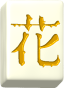
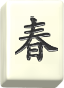
Upgraded to BLAZE, more code changes, threadsafe

Changed region(s): [[0.1562, 0.1591, 0.9375, 0.7727]]

diff --git a/client/game.js b/client/game.js
@@ -16,14 +16,17 @@ scale = {
 }
 
 Template.game.helpers({
+  removed: function() {
+    return Session.get("removedTiles");
+  },
   tiles: function() {
     return Tiles.find();
   },
   relay_tile:function() {
     activeTiles.invalidate();
   },
-  css_style: function(type, x, y, z) {
-    return "background:url('tiles-" + type + "-00.png') 0 0/100%;position:absolute;TOP:" +
+  css_style: function(type, subtype, x, y, z) {
+    return "background:url('tiles-" + type + "-0" + (subtype != null ? subtype : 0) + ".png') 0 0/100%;position:absolute;TOP:" +
     y_offset(x, y, z) + "px;LEFT:" + x_offset(x, y, z) +
     "px;z-index:" + zindex(x, y, z)+";width:"+(tile_width * scale.get()) + "px;height:" + (tile_height * scale.get())+"px"
   },  
@@ -69,9 +72,19 @@ Template.game.helpers({
       var time = new Date();
       time = time.getTime() - get_time().getTime();
       Games.update(Session.get("gameId"), {$set:{'status':complete,'elapsed':time}});
-      console.log("woop")
     }
   return false;
+  },
+  challenge_time: function() {
+    var game = Games.findOne().original
+    if(!game) {
+      return
+    }
+    var time = Games.findOne().originalT
+    return "Time to beat: " + formatTime(getTime(time)) 
+  },
+  rescale: function() {
+    getScale()
   }
 });
 
@@ -83,21 +96,9 @@ timer = function() {
   }
   var now = new Date();
   var time = now.getTime() - started.getTime();
-  var seconds = Math.floor(time / 1000);
-  var minutes = Math.floor(seconds / 60);
-  var hours = Math.floor(minutes / 60);
-  minutes = minutes % 60
-  seconds = seconds % 60
-
-  var timeString;
-  if(hours >= 24) {
-    timeString = "Began over a day ago!";
-  } else {
-    timeString = hours > 0 ? (hours + " hour" + (hours > 1 ? "s" : "") + " ") : ""
-    timeString += minutes > 0 ? (minutes + " minute" + (minutes > 1 ? "s" : "") + " ") : ""
-    timeString += seconds > 0 ? (seconds + " second" + (seconds > 1 ? "s" : "") + " ") : ""
-    timeString += "elapsed"
-  }
+  var timeString = formatTime(getTime(time))
+  timeString += "elapsed"
+  
   $(".time").text(timeString);
 }
 startTimer = function() {
@@ -106,14 +107,16 @@ startTimer = function() {
 
 //on resize, recompute sizes and invalidate layout
 $(window).resize(function() {
+  getScale()
+});
+var getScale = function() {
  var width = $(window).width();
  var height = $(window).height();
  var w_scale = Math.min(1, width/max_width);
  var h_scale = Math.min(1, height/max_height);
  scale.num = Math.min(w_scale, h_scale);
  scale.invalidate()
-
-}); 
+} 
 var get_time = function() {
   Games.findOne()
   return Games.findOne().time_started;
@@ -147,7 +150,7 @@ activeTiles = {
     this.dep.changed();
   }
 }
-debug = true 
+debug = true
 Template.game.events({
  'click .tile': function(event) {
     //if the tile clicked is free...
@@ -159,8 +162,12 @@ Template.game.events({
         if(debug || (this.type == activeTile.type)) {
           //hide the overlay, remove the tiles
           $(".active-tile").css({visibility:"hidden"});
-          Tiles.remove(this._id);
-          Tiles.remove(activeTile._id);
+          Meteor.call("remove", this._id, activeTile._id, function(err, result) {
+          if(!err && result != -1) {
+            Session.set("removedTiles",Session.get("removedTiles") + 1)
+          }});
+          //Tiles.remove(this._id);
+          //Tiles.remove(activeTile._id);
           activeTiles.set(null);
           if(get_time() == -1) {
             Games.update({_id:Session.get("gameId")},{$set:{time_started: new Date()}});
@@ -242,7 +249,7 @@ Deps.autorun(function(){
 subG = null
 subT = null
 Deps.autorun(function() {
-  //these subs should be stopped automagically but I think my redirects are screwing with them OMG I think I know the solution
+  //these subs should be stopped automagically but I think my redirects are screwing with them
   if(subG) {
     subG.stop()
   }

diff --git a/client/boardUtils.js b/client/boardUtils.js
@@ -26,22 +26,35 @@ isFree = function(tile, configuration) {
 
 resetBoard = function(aBoard) {
   var temp = _(aBoard).clone()
-  var tiles = _.keys(temp)
+  var tiles = _.keys(temp) //144 tiles
   tiles = _.shuffle(tiles)
   var tileGroups = {}
-  var tileStyles = _.shuffle(_.range(72))
+  var tileStyles = _.shuffle(_.range(72)) //72 pairs
+  //there are 36 different tiles
   for(var i = 0; i < 36; i++) {
     tileGroups[tileStyles.pop()] = i;
     tileGroups[tileStyles.pop()] = i;
   }
   var currentTile = 0;
   var pairing = null;
+  var flower = 0
+  var season = 0
   while(tiles.length > 0) {
+    //go through and look for free tiles
     for(var i = 0; i < tiles.length; i++) {
       if (pairing != i && isFree(tiles[i], temp)) {
-        if (pairing != null) {
-          aBoard[tiles[pairing]] = tileGroups[currentTile];
-          aBoard[tiles[i]] = tileGroups[currentTile];
+        if (pairing != null) { //we're matching this to a tile
+          var style = tileGroups[currentTile]
+          if(style == 34) {  //flower
+            aBoard[tiles[pairing]] = [34,flower++]
+            aBoard[tiles[pairing]] = [34,flower++]
+          } else if (style == 35) { //season
+            aBoard[tiles[pairing]] = [35,season++]
+            aBoard[tiles[pairing]] = [35,season++]
+          } else {
+            aBoard[tiles[pairing]] = [tileGroups[currentTile]];
+            aBoard[tiles[i]] = [tileGroups[currentTile]];
+          }
           delete temp[tiles[pairing]];
           delete temp[tiles[i]];
           var bigger = Math.max(pairing, i)
@@ -52,7 +65,7 @@ resetBoard = function(aBoard) {
           currentTile++;
           break;
         } else {
-          pairing = i;
+          pairing = i; //we will match next free tile here
         }
       }
     }

diff --git a/server/uap-mahjongg.js b/server/uap-mahjongg.js
@@ -12,6 +12,7 @@ Meteor.methods({
         y:tile[1],
         z:tile[2],
         type:tile[3],
+        subtype:tile[4],
         game : gameId
       }
       Tiles.insert(tempTile)
@@ -23,7 +24,8 @@ Meteor.methods({
       time: new Date(),
       time_started: -1,
       layout: oldGame.layout,
-      original: oldGame._id
+      original: oldGame._id,
+      originalT: oldGame.elapsed
     });
     _.each(oldGame.layout, function(tile) {
       var tempTile = {
@@ -31,14 +33,22 @@ Meteor.methods({
         y:tile[1],
         z:tile[2],
         type:tile[3],
+        subtype:tile[4],
         game : gameId
       }
       Tiles.insert(tempTile)
     });
     console.log(gameId);
     return gameId;
-  } 
- });
+  }, 
+  remove: function(id, id2) {
+    var aTile = Tiles.findOne({_id:id2})
+    if(aTile == null) { return -1 }
+    if(Tiles.remove(id) == 0) { return -1 }
+    Tiles.remove(id2)
+    return 2
+  }
+  });
 Meteor.publish('a-game', function(gameId) {
   return Games.find({_id:gameId});
 });

diff --git a/client/game.html b/client/game.html
@@ -2,19 +2,20 @@
   {{#if done}}
     {{>gameover}}
 {{else}} 
-  {{#isolate}}
-  <div class="moves">{{remainingMoves}}</div>
-  {{/isolate}}
-  <div class="time"></div>
+  <div class="container">
+    <div class="col-md-2 moves">{{remainingMoves}}</div>
+    <div class="col-md-4 removed">{{removed}} pairs removed</div>
+    <div class="col-md-3 time"></div>
+    <div class="col-md-3 challenge">{{challenge_time}}</div>
+  <div class="board">
   {{#each tiles}}
-    {{#isolate}}
-    <div class="tile x{{x}}y{{y}}z{{z}}" style="{{css_style type x y z}}"></div>
-    {{/isolate}}
+    <div class="tile x{{x}}y{{y}}z{{z}}" style="{{css_style type subtype x y z}}"></div>
   {{/each}}
-  {{relay_tile}}
-  {{#isolate}}
   <div class="active-tile" style="{{active_tile_style}}"></div>
-  {{/isolate}}
+  </div>
+</div>
+  {{relay_tile}}
+  {{rescale}}
   <button class = "btn btn-primary cheat-lose">Cheat</button>
   <button class = "btn btn-primary cheat-win">Cheat A lot</button>
 {{/if}}

diff --git a/lib/utils.js b/lib/utils.js
@@ -1,0 +1,25 @@
+getTime = function(time) {
+var seconds = Math.floor(time / 1000);
+var minutes = Math.floor(seconds / 60);
+var hours = Math.floor(minutes / 60);
+var days = Math.floor(hours / 24);
+minutes = minutes % 60
+seconds = seconds % 60
+hours = hours % 24
+return [days, hours, minutes, seconds]
+}
+
+formatTime = function(time) {
+  var timeString;
+  var days = time[0]
+  var hours = time[1]
+  var minutes = time[2]
+  var seconds = time[3]
+
+  timeString = days > 0 ? (days + " day" + (days > 1 ? "s" : "") + " "):""
+  timeString += hours > 0 ? (hours + " hour" + (hours > 1 ? "s" : "") + " ") : ""
+  timeString += minutes > 0 ? (minutes + " minute" + (minutes > 1 ? "s" : "") + " ") : ""
+  timeString += seconds > 0 ? (seconds + " second" + (seconds > 1 ? "s" : "") + " ") : ""
+    
+  return timeString
+}

diff --git a/client/victory.js b/client/victory.js
@@ -1,21 +1,7 @@
 Template.victory.helpers({
   time : function () {
     var time = Games.findOne().elapsed;
-    var seconds = Math.floor(time / 1000);
-    var minutes = Math.floor(seconds / 60);
-    var hours = Math.floor(minutes / 60);
-    var days = Math.floor(hours / 24);
-    minutes = minutes % 60
-    seconds = seconds % 60
-
-    var timeString;
-
-    timeString = days > 0 ? (days + " day" + (days > 1 ? "s" : "") + " "):""
-    timeString += hours > 0 ? (hours + " hour" + (hours > 1 ? "s" : "") + " ") : ""
-    timeString += minutes > 0 ? (minutes + " minute" + (minutes > 1 ? "s" : "") + " ") : ""
-    timeString += seconds > 0 ? (seconds + " second" + (seconds > 1 ? "s" : "") + " ") : ""
-    
-    return timeString
+    return formatTime(getTime(time))
   },
   link: function() {
     return get_link();

diff --git a/client/play.js b/client/play.js
@@ -20,7 +20,8 @@ Template.main.events({
       })
       resetBoard(tempBoard);
       for(var i = 0; i < tempTiles.length; i++) {
-        tempTiles[i].push(tempBoard[tempTiles[i]])
+        //add style to [x,y,z]
+        tempTiles[i] = tempTiles[i].concat(tempBoard[tempTiles[i]])
       }
       Meteor.call('createGame', tempTiles, function(err, gameId) {
         MahjonggRouter.navigate("/game/" + gameId, {trigger:"true"});

diff --git a/client/play.html b/client/play.html
@@ -18,7 +18,7 @@
 
 <template name="main">
   <div class="container">
-    Welcome! Let's Play!</br>
+    Welcome! Let's Play!<br/>
     <button class="btn btn-lg btn-primary btn-block new-game">New Game</button>
   </div>
 </template>

diff --git a/client/routes.js b/client/routes.js
@@ -11,6 +11,7 @@ var Router = Backbone.Router.extend({
   loadGame : function(id) {
     Session.set("loading", true)
     Session.set("gameId", id)
+    Session.set("removedTiles", 0)
   },
 
   challengeGame : function(id) {

diff --git a/client/game.css b/client/game.css
@@ -8,3 +8,7 @@
   position:absolute;
   visibility:hidden;
 }
+
+.board {
+  position:relative;
+}
